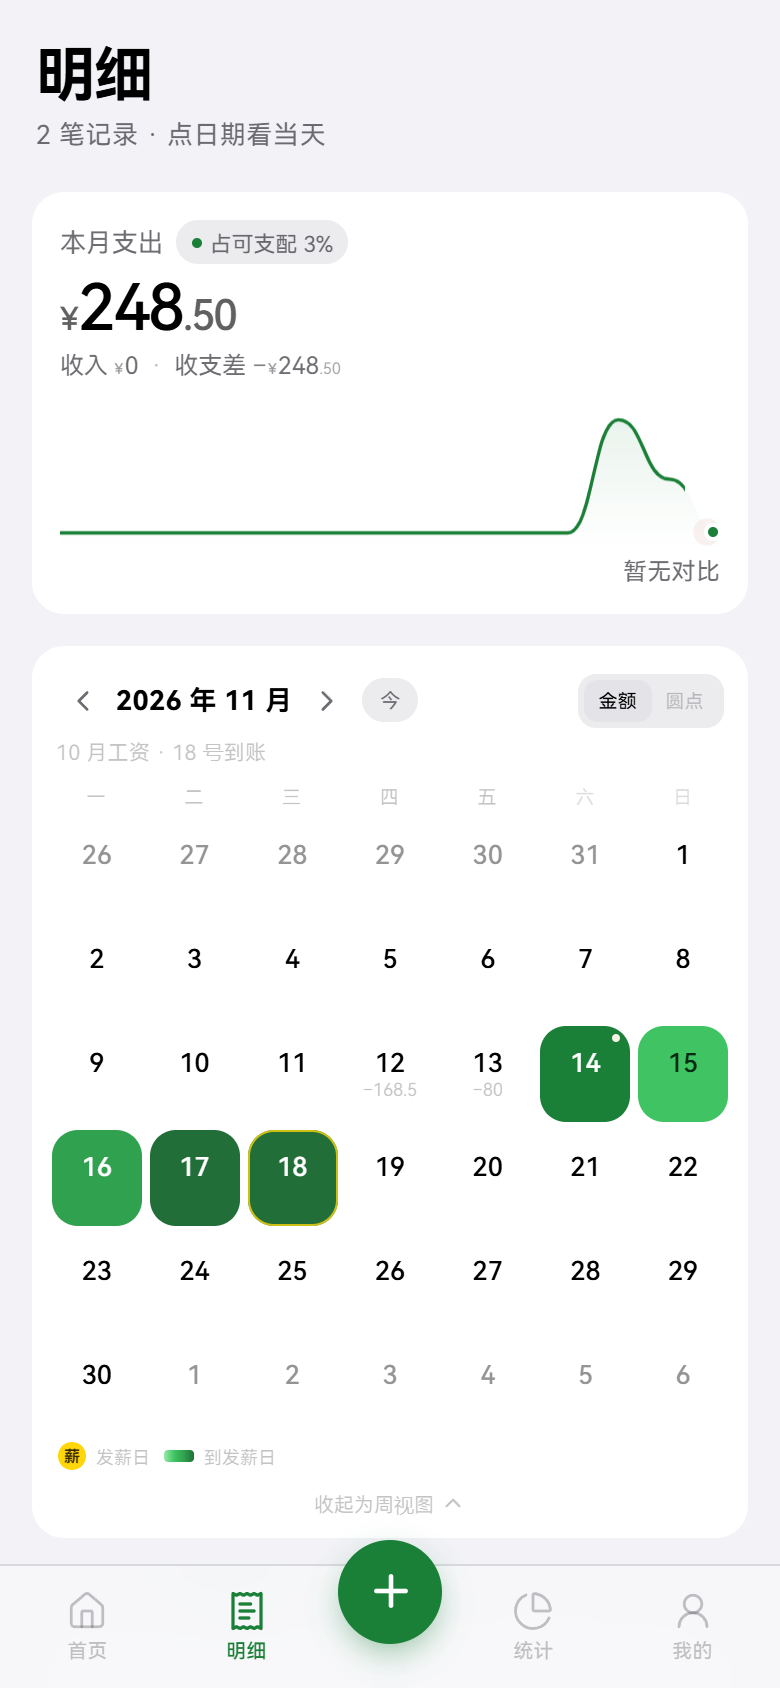
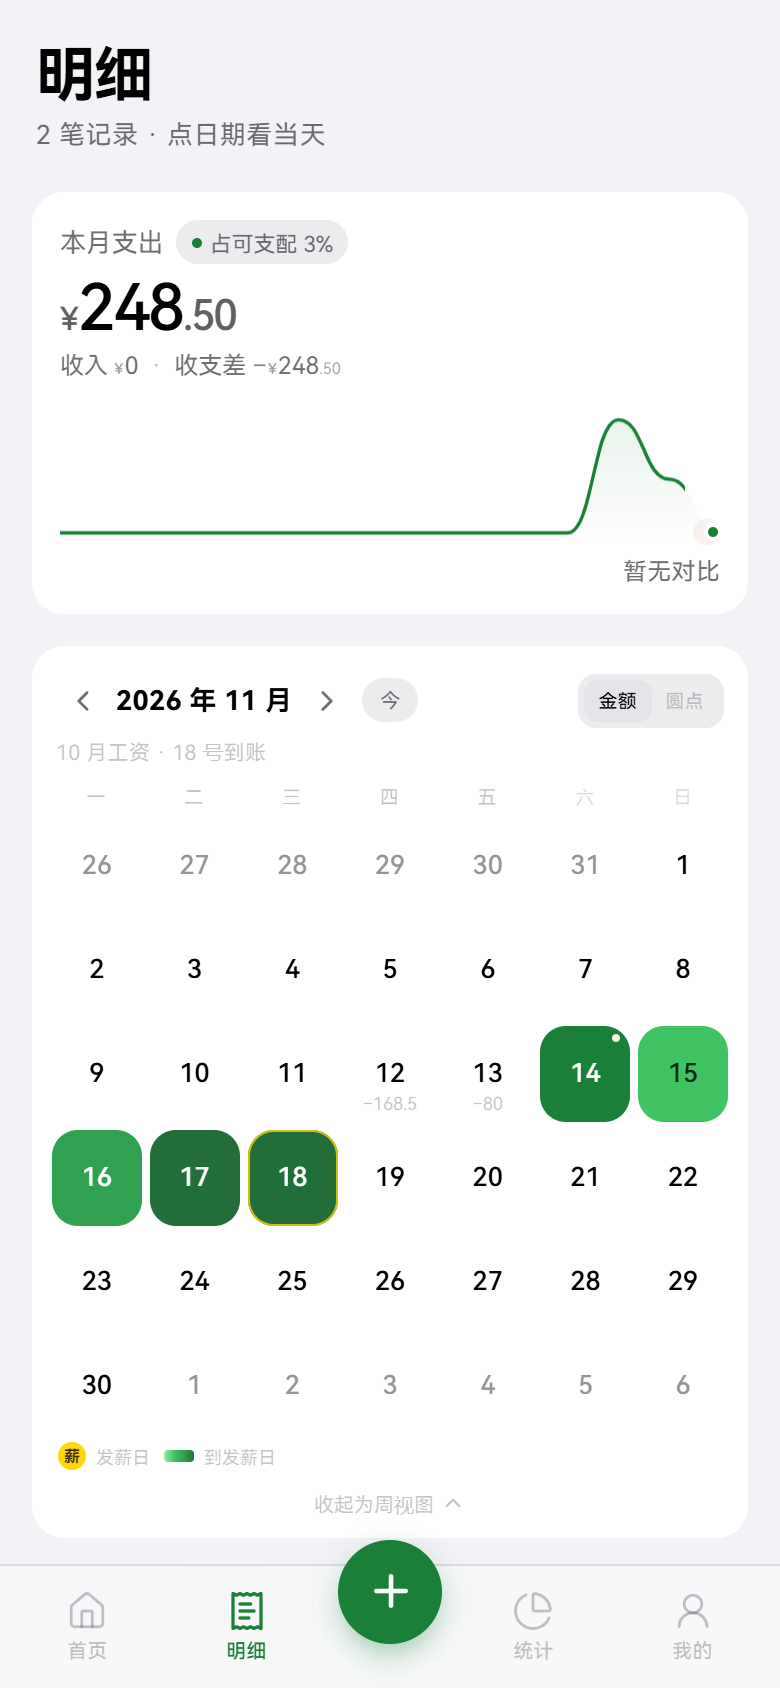
日历：日期数字垂直居中，金额和圆点沉到底部
- .cal-cell 去掉 gap，日期单独居中
- .cal-amt / .cal-dot 绝对定位到底部，不再把数字往上顶
- 版本 1.1.20 / versionCode 30

diff --git a/src/styles/app.css b/src/styles/app.css
@@ -1116,7 +1116,7 @@ textarea:focus-visible {
   flex-direction: column;
   align-items: center;
   justify-content: center;
-  gap: 2px;
+  gap: 0;
   color: var(--ink);
   transition: background 0.16s ease, transform 0.16s ease;
 }
@@ -1145,6 +1145,11 @@ textarea:focus-visible {
 }
 
 .cal-amt {
+  position: absolute;
+  left: 0;
+  right: 0;
+  bottom: 5px;
+  text-align: center;
   font-family: var(--num);
   font-size: 9px;
   line-height: 1;
@@ -1175,9 +1180,13 @@ textarea:focus-visible {
 }
 
 .cal-dot {
+  position: absolute;
+  left: 50%;
+  bottom: 7px;
   width: 4px;
   height: 4px;
-  margin-top: 1px;
+  margin: 0;
+  transform: translateX(-50%);
   border-radius: 50%;
   background: var(--ink-3);
 }

diff --git a/src/pages/Me.tsx b/src/pages/Me.tsx
@@ -236,7 +236,7 @@ export function Me() {
       <footer className="me-foot">
         <img className="me-brand-icon" src={appIcon} alt="使劲燃的钱" />
         <div>
-          <b>使劲燃的钱 v1.1.19</b>
+          <b>使劲燃的钱 v1.1.20</b>
           <p><ShieldCheck size={13} strokeWidth={1.6} /> 数据只保存在这台手机上，不上传</p>
         </div>
         <button

diff --git a/README.md b/README.md
@@ -7,7 +7,7 @@
 - 纯本地存储，不联网、不上传、无广告、无账号
 - 深色 / 浅色 / 跟随系统 + 8 个强调色的可换主题，新装默认浅色；炭灰卡片、16px 间距、鸿蒙 Sans 中文 + Nunito 圆体数字；版式与主题系统参考 openGym，代码全部重写
 - 冷启动从桌面图标接力：存钱罐图标先落在深青底上，新海报从图标的圆角矩形里向外展开并对上焦，再虚化交给首页
-- 安装包：`release/使劲燃的钱-1.1.19.apk`（约 5.0 MB，minSdk 23 / targetSdk 35）
+- 安装包：`release/使劲燃的钱-1.1.20.apk`（约 5.0 MB，minSdk 23 / targetSdk 35）
 
 ## 功能
 

diff --git a/CHANGELOG.md b/CHANGELOG.md
@@ -1,5 +1,10 @@
 # 更新记录
 
+## 1.1.20 — 2026-11-14
+
+- 日历日期数字改为格子正中心；金额和圆点绝对定位到格子底部，不再把日期往上顶。
+- 发薪倒计时的四级绿和发薪日金色描边保持不变。
+
 ## 1.1.19 — 2026-11-14
 
 - 发薪倒计时改用 GitHub contribution 图的四级绿（浅到深 `#9be9a8 → #40c463 → #30a14e → #216e39`），深色主题对应 `#0e4429 → #006d32 → #26a641 → #39d353`。

diff --git a/docs/ARCHITECTURE.md b/docs/ARCHITECTURE.md
@@ -109,6 +109,6 @@ openGym 是 AGPL-3.0，这里只借鉴版式与间距，没有复制它的代码
 
 ## 版本与构建
 
-- `versionCode 29` / `versionName 1.1.19`（`android/app/build.gradle`）
+- `versionCode 30` / `versionName 1.1.20`（`android/app/build.gradle`）
 - 数据版本 `LedgerState.version = 1`，`normalize()` 会在读取时补全新增的内置分类
 - 打包：`npm run build && npx cap copy android`，再 `gradle assembleDebug`
